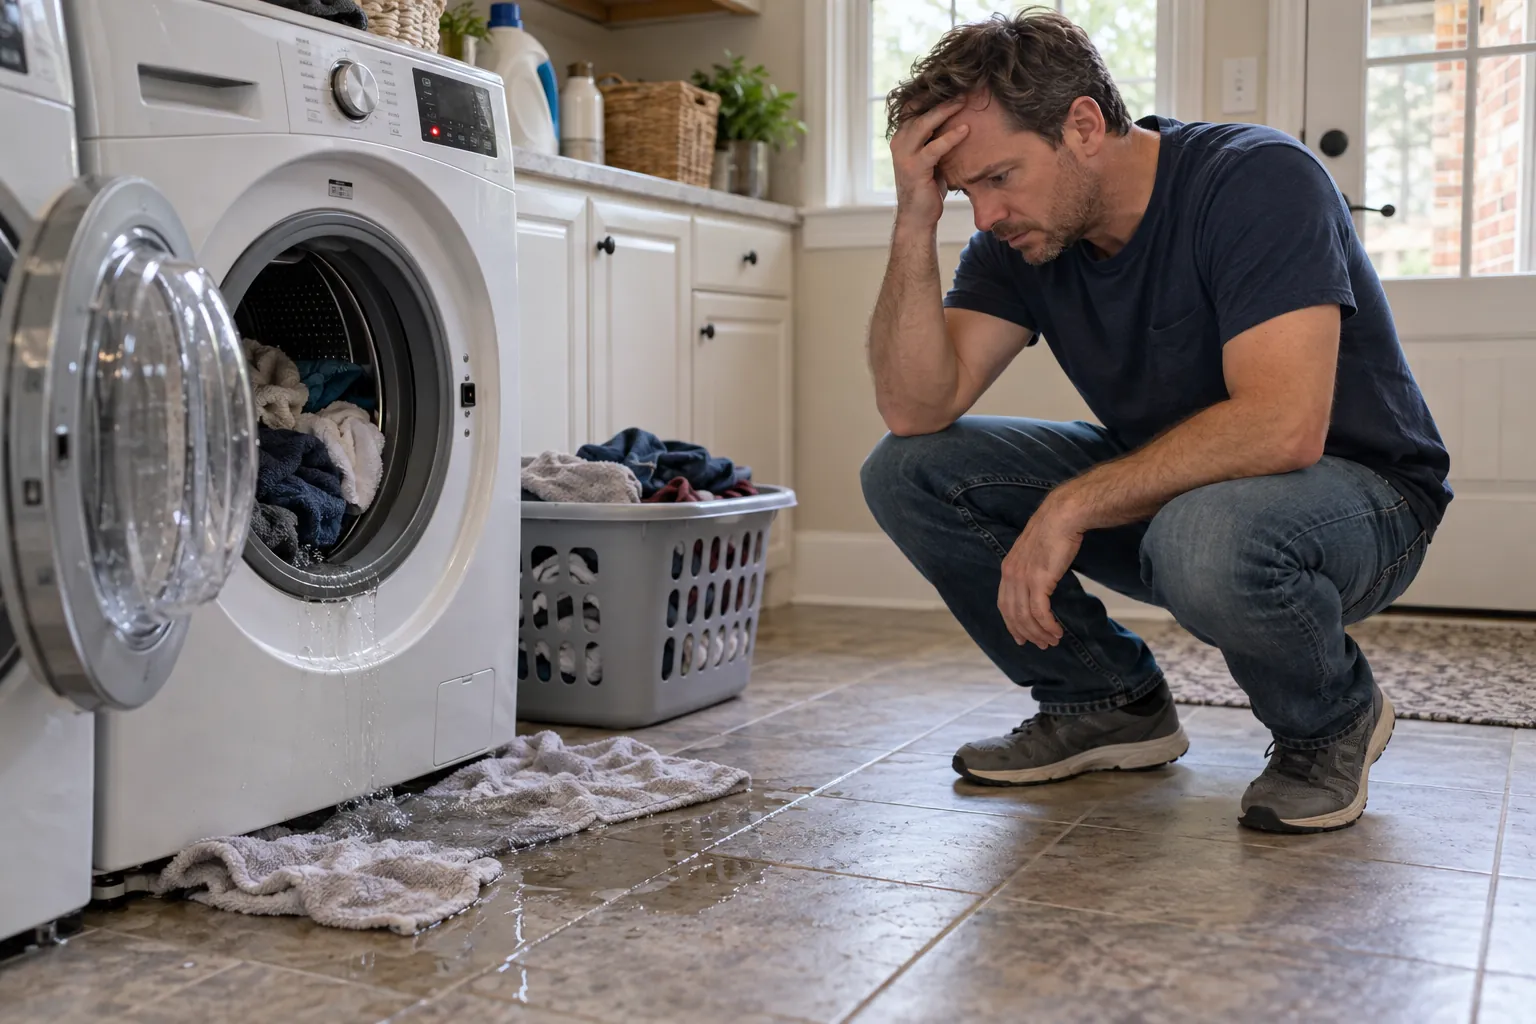
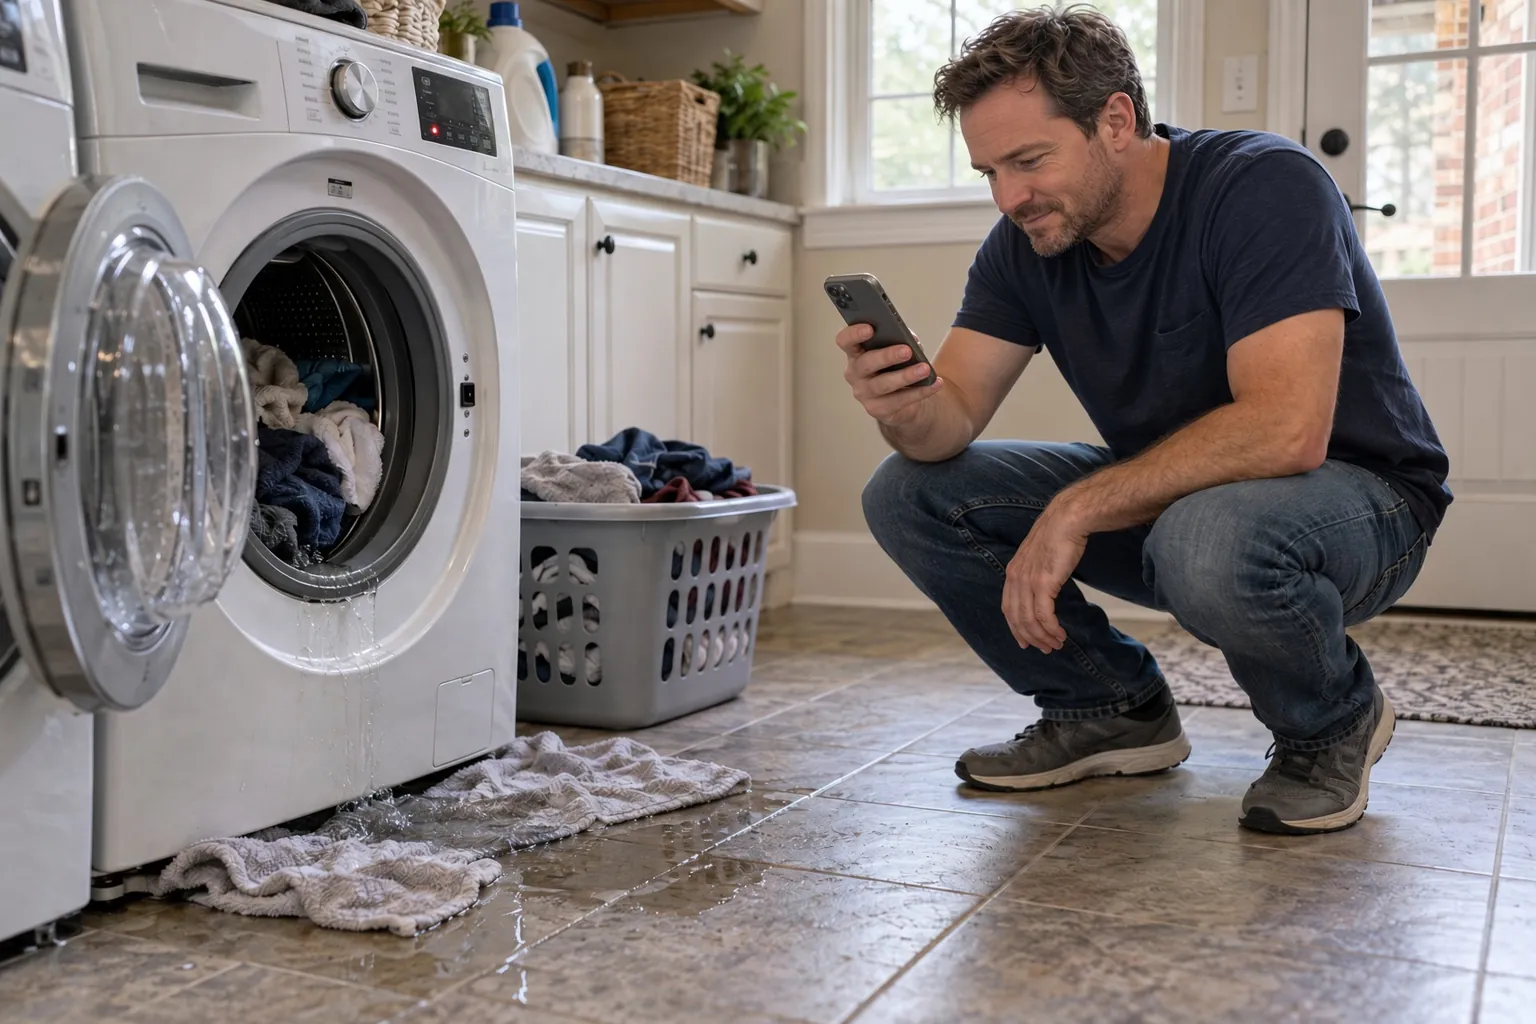
Hero slide 1: confident homeowner booking help on his phone
Replaces the head-in-hands washer photo. Words sit low on phones so his
face and phone stay clear.

Claude-Session: https://claude.ai/code/session_01QHVwTZh87Cr26tYtfvQ56P

diff --git a/public/index.html b/public/index.html
@@ -54,7 +54,7 @@
     .slides::-webkit-scrollbar { display: none; }
     .slide { position: relative; flex: 0 0 100%; scroll-snap-align: start; overflow: hidden; }
     .slide img { position: absolute; inset: 0; width: 100%; height: 100%; object-fit: cover; }
-    .slide img.washer { object-position: 80% 50%; }
+    .slide img.washer { object-position: 72% 0%; }
     .slide img.pro { object-position: 30% 0%; }
     /* This slide's phone photo has his face up top, so its words sit low. */
     .slide .copy.low { top: auto; bottom: 44px; }
@@ -284,9 +284,9 @@
             <source type="image/webp" srcset="/img/washer-960.webp 960w, /img/washer-1536.webp 1536w" sizes="100vw" />
             <img class="washer" src="/img/washer-1536.jpg" srcset="/img/washer-960.jpg 960w, /img/washer-1536.jpg 1536w" sizes="100vw"
                  width="1536" height="1024" fetchpriority="high"
-                 alt="A frustrated homeowner crouched beside a front-load washer leaking water across the laundry room floor" />
+                 alt="A homeowner crouched beside his leaking washer, calmly booking help on his phone" />
           </picture>
-          <div class="copy">
+          <div class="copy low">
             <h1 class="mark">NOHM it.</h1>
             <p class="lede">It&rsquo;s always something.</p>
             <div class="pair">
@@ -363,7 +363,7 @@
           <picture>
             <source type="image/webp" srcset="/img/washer-960.webp 960w, /img/washer-1536.webp 1536w" sizes="(min-width: 900px) 33vw, 90vw" />
             <img src="/img/washer-960.jpg" srcset="/img/washer-960.jpg 960w, /img/washer-1536.jpg 1536w" sizes="(min-width: 900px) 33vw, 90vw"
-                 width="1536" height="1024" loading="lazy" style="object-position:70% 50%" alt="A homeowner beside a leaking washer in the laundry room" />
+                 width="1536" height="1024" loading="lazy" style="object-position:70% 50%" alt="A homeowner beside his leaking washer, booking help on his phone" />
           </picture>
           <h3>Ready Before They Arrive</h3>
           <p>With your permission, pros see your equipment and past repairs first.</p>

diff --git a/public/homeowners/index.html b/public/homeowners/index.html
@@ -196,7 +196,7 @@
           <picture>
             <source type="image/webp" srcset="/img/washer-960.webp 960w, /img/washer-1536.webp 1536w" sizes="(min-width: 900px) 33vw, 90vw" />
             <img src="/img/washer-960.jpg" srcset="/img/washer-960.jpg 960w, /img/washer-1536.jpg 1536w" sizes="(min-width: 900px) 33vw, 90vw"
-                 width="1536" height="1024" loading="lazy" style="object-position:70% 50%" alt="A homeowner beside a leaking washer" />
+                 width="1536" height="1024" loading="lazy" style="object-position:70% 50%" alt="A homeowner beside his leaking washer, booking help on his phone" />
           </picture>
           <h3>Tell NOHM What Broke</h3>
           <p>Open the app and request help.</p>
